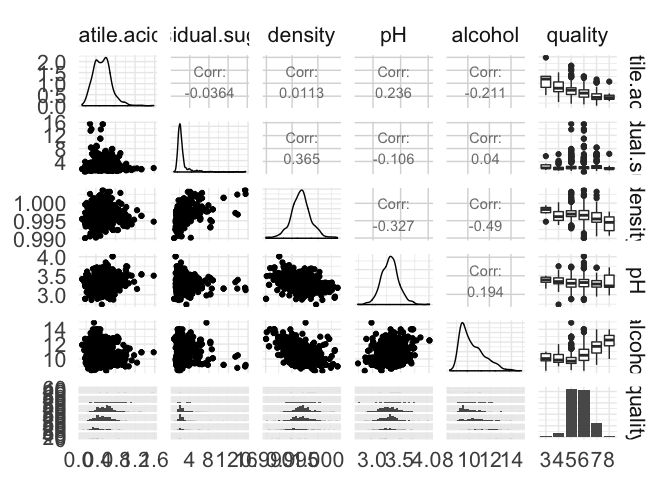
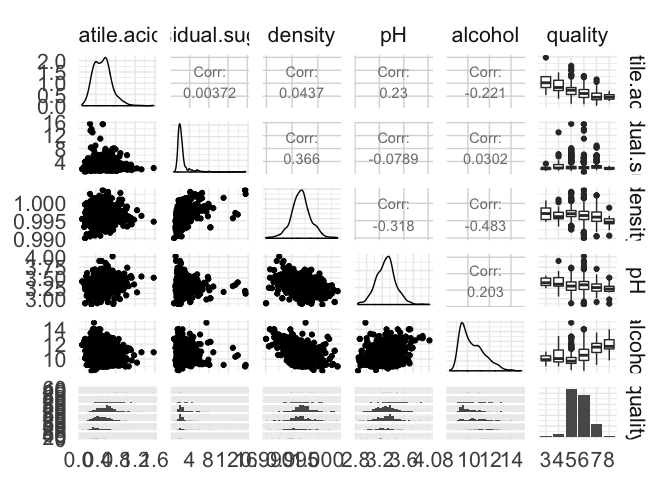
Started working on bivariate plots - experimented with GGAlly library

diff --git a/red_red_wine.md b/red_red_wine.md
@@ -381,7 +381,7 @@ The main feature of interest is the distribution of the quality variable. More t
 
 ### What other features in the dataset do you think will help support your investigation into your feature(s) of interest?
 
-Biggest question for me is how/whether the different input variables correlate or predict the output variable, quality. Am particularly curious to see how alchohol level correlates with quality. Will also be interesting to see how the different acidity-related variables correlate with each other and with qulaity.
+Biggest question for me is how/whether the different input variables correlate or predict the output variable, quality. Am particularly curious to see how alchohol level correlates with quality. Will also be interesting to see how the different acidity-related variables correlate with each other and with quality.
 
 ### Did you create any new variables from existing variables in the dataset?
 
@@ -397,6 +397,111 @@ Bivariate Plots Section
 =======================
 
 > **Tip**: Based on what you saw in the univariate plots, what relationships between variables might be interesting to look at in this section? Don't limit yourself to relationships between a main output feature and one of the supporting variables. Try to look at relationships between supporting variables as well.
+
+*Note* - proper way to convert factor to numeric and back is - [described in the link](https://stackoverflow.com/questions/3418128/how-to-convert-a-factor-to-integer-numeric-without-loss-of-information) **need to refactor code**
+
+    ## 'data.frame':    1599 obs. of  5 variables:
+    ##  $ quality             : Factor w/ 6 levels "3","4","5","6",..: 3 3 3 4 3 3 3 5 5 3 ...
+    ##  $ alcohol             : num  9.4 9.8 9.8 9.8 9.4 9.4 9.4 10 9.5 10.5 ...
+    ##  $ pH                  : num  3.51 3.2 3.26 3.16 3.51 3.51 3.3 3.39 3.36 3.35 ...
+    ##  $ residual.sugar      : num  1.9 2.6 2.3 1.9 1.9 1.8 1.6 1.2 2 6.1 ...
+    ##  $ total.sulfur.dioxide: num  34 67 54 60 34 40 59 21 18 102 ...
+
+    ## 'data.frame':    1599 obs. of  5 variables:
+    ##  $ quality             : Factor w/ 6 levels "3","4","5","6",..: 3 3 3 4 3 3 3 5 5 3 ...
+    ##  $ alcohol             : num  9.4 9.8 9.8 9.8 9.4 9.4 9.4 10 9.5 10.5 ...
+    ##  $ pH                  : num  3.51 3.2 3.26 3.16 3.51 3.51 3.3 3.39 3.36 3.35 ...
+    ##  $ residual.sugar      : num  1.9 2.6 2.3 1.9 1.9 1.8 1.6 1.2 2 6.1 ...
+    ##  $ total.sulfur.dioxide: num  34 67 54 60 34 40 59 21 18 102 ...
+
+    ## 'data.frame':    1599 obs. of  5 variables:
+    ##  $ quality             : num  3 3 3 4 3 3 3 5 5 3 ...
+    ##  $ alcohol             : num  9.4 9.8 9.8 9.8 9.4 9.4 9.4 10 9.5 10.5 ...
+    ##  $ pH                  : num  3.51 3.2 3.26 3.16 3.51 3.51 3.3 3.39 3.36 3.35 ...
+    ##  $ residual.sugar      : num  1.9 2.6 2.3 1.9 1.9 1.8 1.6 1.2 2 6.1 ...
+    ##  $ total.sulfur.dioxide: num  34 67 54 60 34 40 59 21 18 102 ...
+
+``` r
+# toggle quality variable factor<-->numeric (comment as appropriate) 
+#rw_subset$quality <- as.numeric(rw_subset$quality)
+# rw_subset$quality <- as.factor(rw_subset$quality)
+# first attempt to run GGpairs function to get quick plot - done with alcohol as both numeric and factoral
+ggpairs(rw_subset_fact, mapping = aes(color = quality), upper = list(combo = "dot"))
+```
+
+    ## `stat_bin()` using `bins = 30`. Pick better value with `binwidth`.
+    ## `stat_bin()` using `bins = 30`. Pick better value with `binwidth`.
+    ## `stat_bin()` using `bins = 30`. Pick better value with `binwidth`.
+    ## `stat_bin()` using `bins = 30`. Pick better value with `binwidth`.
+
+![](red_red_wine_files/figure-markdown_github/unnamed-chunk-26-1.png)
+
+``` r
+ggpairs(rw_subset_num)
+```
+
+![](red_red_wine_files/figure-markdown_github/unnamed-chunk-26-2.png)
+
+``` r
+# , upper = list(continuous = wrap(cor_text, color = "red", size = 10))
+# axisLabels = 'internal'
+```
+
+``` r
+# toggle quality variable factor<-->numeric (comment as appropriate) 
+# rw$quality <- as.numeric(rw$quality)
+rw$quality <- as.factor(rw$quality)
+str(rw)
+```
+
+    ## 'data.frame':    1599 obs. of  13 variables:
+    ##  $ id                  : Factor w/ 1599 levels "1","2","3","4",..: 1 2 3 4 5 6 7 8 9 10 ...
+    ##  $ fixed.acidity       : num  7.4 7.8 7.8 11.2 7.4 7.4 7.9 7.3 7.8 7.5 ...
+    ##  $ volatile.acidity    : num  0.7 0.88 0.76 0.28 0.7 0.66 0.6 0.65 0.58 0.5 ...
+    ##  $ citric.acid         : num  0 0 0.04 0.56 0 0 0.06 0 0.02 0.36 ...
+    ##  $ residual.sugar      : num  1.9 2.6 2.3 1.9 1.9 1.8 1.6 1.2 2 6.1 ...
+    ##  $ chlorides           : num  0.076 0.098 0.092 0.075 0.076 0.075 0.069 0.065 0.073 0.071 ...
+    ##  $ free.sulfur.dioxide : num  11 25 15 17 11 13 15 15 9 17 ...
+    ##  $ total.sulfur.dioxide: num  34 67 54 60 34 40 59 21 18 102 ...
+    ##  $ density             : num  0.998 0.997 0.997 0.998 0.998 ...
+    ##  $ pH                  : num  3.51 3.2 3.26 3.16 3.51 3.51 3.3 3.39 3.36 3.35 ...
+    ##  $ sulphates           : num  0.56 0.68 0.65 0.58 0.56 0.56 0.46 0.47 0.57 0.8 ...
+    ##  $ alcohol             : num  9.4 9.8 9.8 9.8 9.4 9.4 9.4 10 9.5 10.5 ...
+    ##  $ quality             : Factor w/ 6 levels "3","4","5","6",..: 3 3 3 4 3 3 3 5 5 3 ...
+
+``` r
+ggscatmat(rw, columns = c(5,8,10:13), color="quality", alpha=0.5)
+```
+
+    ## Warning in ggscatmat(rw, columns = c(5, 8, 10:13), color = "quality", alpha
+    ## = 0.5): Factor variables are omitted in plot
+
+![](red_red_wine_files/figure-markdown_github/unnamed-chunk-27-1.png)
+
+``` r
+# ggscatmat(rw_subset_num, columns = 2:4, color="quality", alpha=0.8)
+```
+
+``` r
+summary(rw$quality)
+```
+
+    ##   3   4   5   6   7   8 
+    ##  10  53 681 638 199  18
+
+``` r
+summary(rw_subset_num$quality)
+```
+
+    ##    Min. 1st Qu.  Median    Mean 3rd Qu.    Max. 
+    ##   1.000   3.000   4.000   3.636   4.000   6.000
+
+``` r
+summary(rw_subset_fact$quality)
+```
+
+    ##   3   4   5   6   7   8 
+    ##  10  53 681 638 199  18
 
 Bivariate Analysis
 ==================
